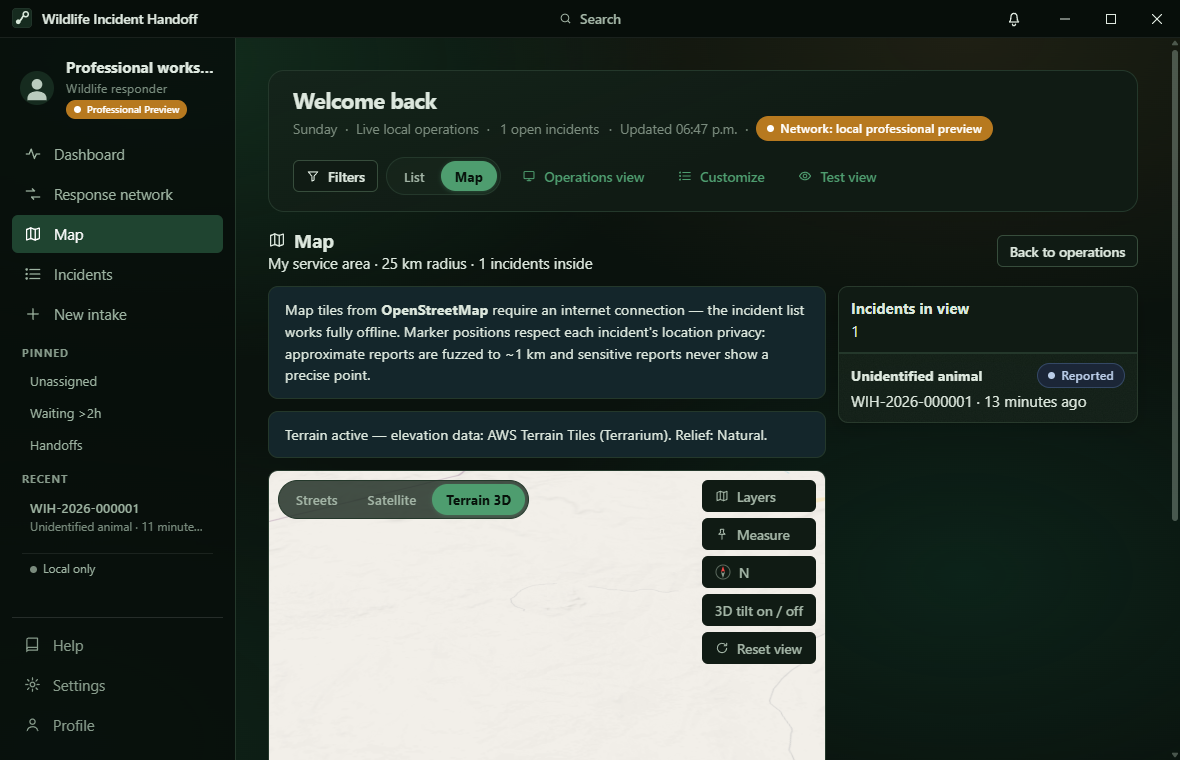
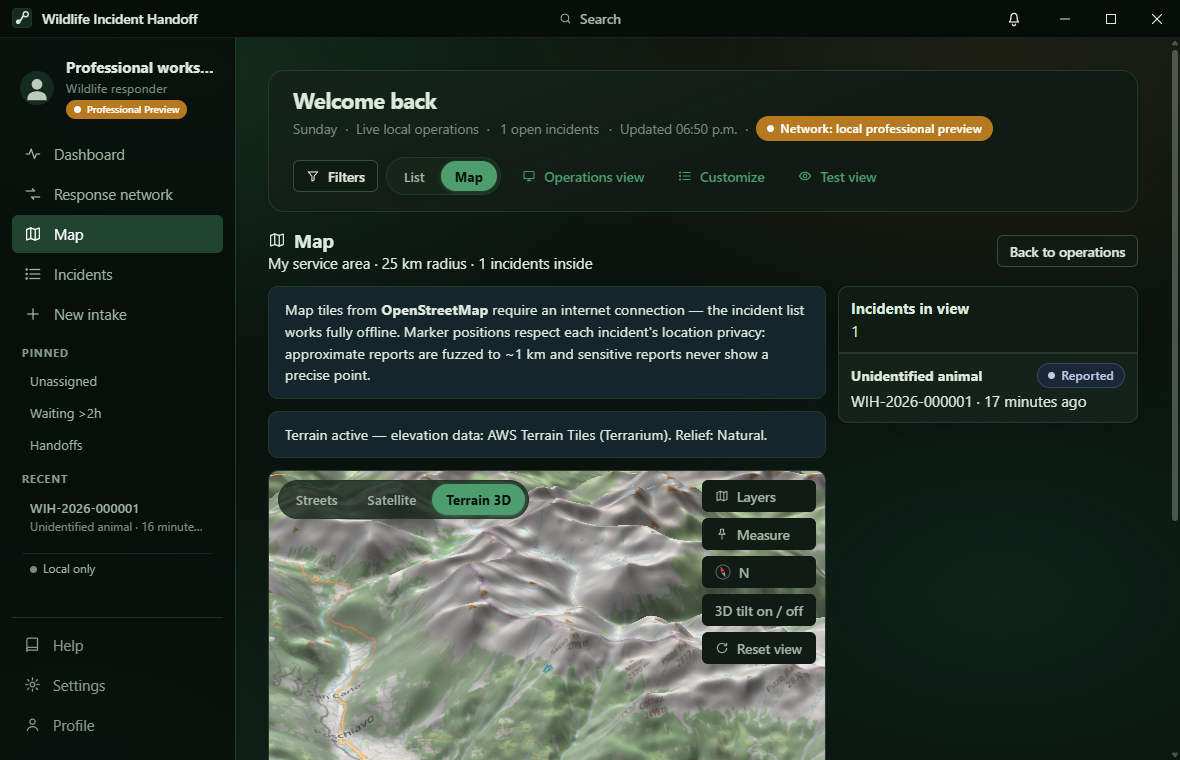
fix(0.3.0-dev.5): map camera memory now actually restores on basemap switch — fitMode=service-area previously forced initialCamera null on every remount, resetting the view (spec 34/36)

Changed region(s): [[0.2136, 0.6053, 0.7017, 1.0], [0.5797, 0.1513, 0.6102, 0.1816]]

diff --git a/src/features/network/NetworkMap.tsx b/src/features/network/NetworkMap.tsx
@@ -138,7 +138,11 @@ export function NetworkMap({
       showServiceArea: prefs.layers.serviceArea,
       // Spec 99: restore the persisted camera unless the view must fit the
       // service area. Never restored when nothing was persisted.
-      initialCamera: fitMode !== "service-area" ? cameraStoreRef.current[full ? "full" : "compact"] ?? null : null,
+      // 0.3.0-dev.5 (spec 34/36): restore the remembered camera whenever one
+      // exists — the provider only fits the service area when nothing was
+      // saved. Previously fitMode="service-area" made basemap switches reset
+      // the camera to the fit view, losing the user's place.
+      initialCamera: cameraStoreRef.current[full ? "full" : "compact"] ?? null,
       onCameraChange: (cam) => {
         setView({ bearing: cam.bearing, pitch: cam.pitch });
         const size = full ? "full" : "compact";
